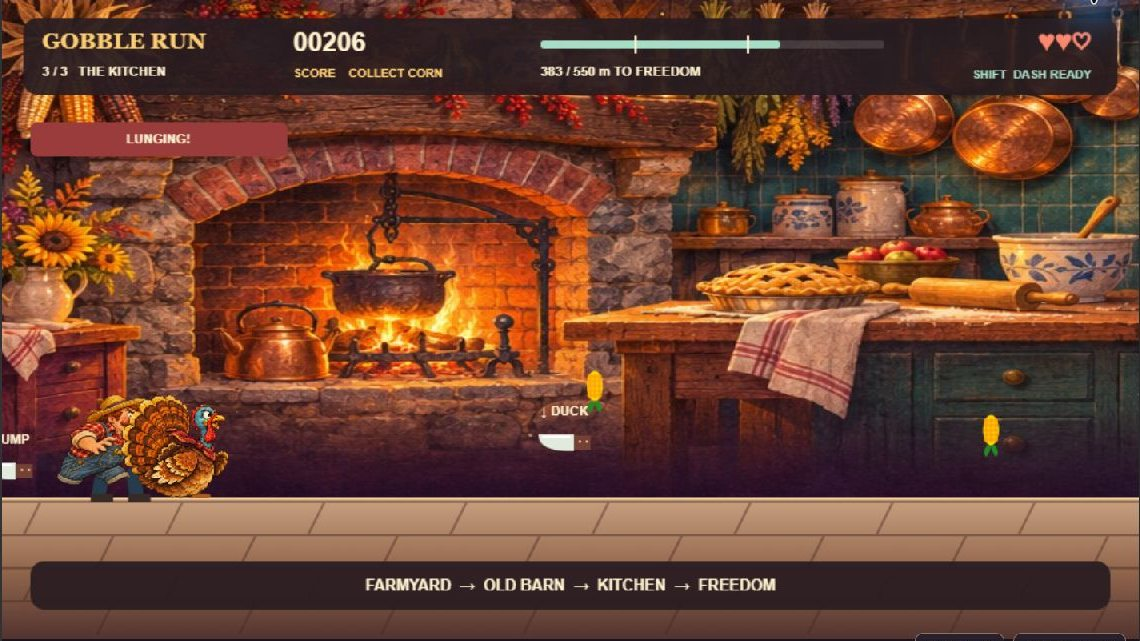
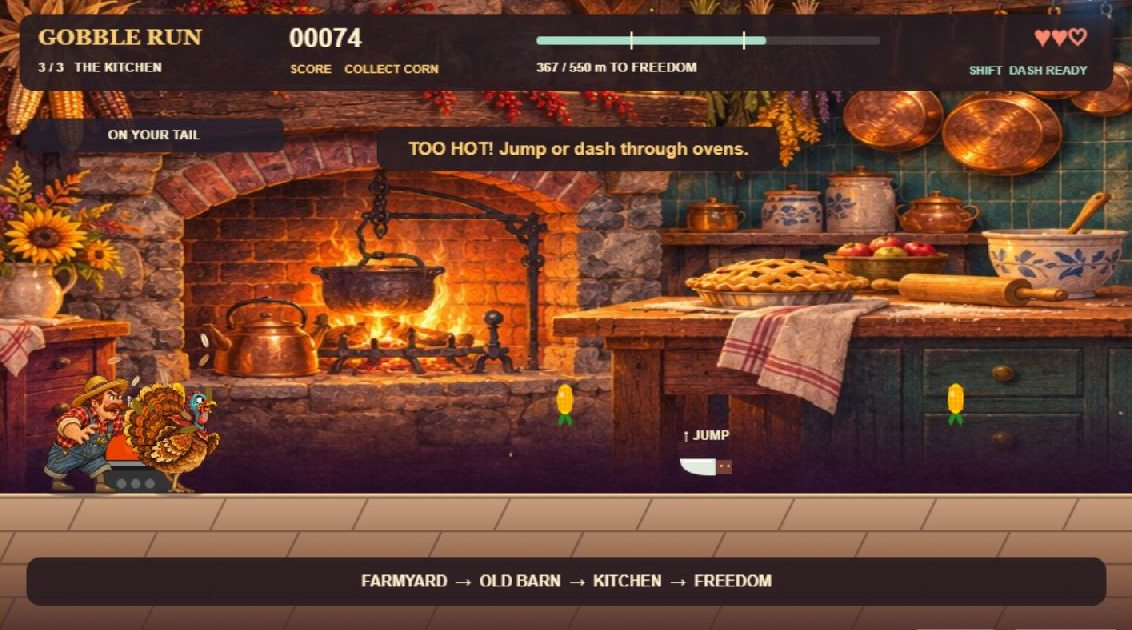
Align turkey feet and farmer boots with the sprites

diff --git a/game/src/characters.js b/game/src/characters.js
@@ -1,0 +1,147 @@
+/** Join the animated lower legs to the painted bodies. Coordinates are relative to the ground. */
+import { CONFIG } from './config.js';
+
+const TAU = 2 * Math.PI;
+
+function stride(phase, reach, lift) {
+  const progress = (phase / TAU + 1) % 1;
+  if (progress < 0.5) return [reach * (1 - 4 * progress), 0];
+  const swing = 2 * progress - 1;
+  return [reach * (2 * swing - 1), -lift * Math.sin(Math.PI * swing) ** 2];
+}
+
+function shadow(ctx, x, width, opacity) {
+  ctx.fillStyle = `rgba(32, 20, 29, ${opacity})`;
+  ctx.beginPath();
+  ctx.ellipse(x, 0, width, 3, 0, 0, TAU);
+  ctx.fill();
+}
+
+function turkeyLeg(ctx, hipX, hipY, toeX, soleY, rear) {
+  const ankleY = soleY - 3;
+  const hockX = hipX + (toeX - hipX) * 0.34 - 4;
+  const hockY = hipY + (ankleY - hipY) * 0.45;
+  const outline = '#583018';
+  const gold = rear ? '#ad662e' : '#e2a553';
+  ctx.lineCap = 'round';
+  ctx.lineJoin = 'round';
+  ctx.beginPath();
+  ctx.moveTo(hipX, hipY);
+  ctx.quadraticCurveTo(hipX - 2, hockY - 3, hockX, hockY);
+  ctx.lineTo(toeX, ankleY);
+  ctx.strokeStyle = outline;
+  ctx.lineWidth = 4.5;
+  ctx.stroke();
+  ctx.strokeStyle = gold;
+  ctx.lineWidth = 2.4;
+  ctx.stroke();
+
+  ctx.beginPath();
+  ctx.moveTo(toeX - 3.5, soleY - 1.7);
+  ctx.lineTo(toeX, ankleY);
+  ctx.quadraticCurveTo(toeX + 3.5, ankleY - 0.5, toeX + 8, soleY - 1.4);
+  ctx.moveTo(toeX + 1, ankleY);
+  ctx.lineTo(toeX + 5, soleY - 0.9);
+  ctx.strokeStyle = outline;
+  ctx.lineWidth = 2.4;
+  ctx.stroke();
+  ctx.strokeStyle = gold;
+  ctx.lineWidth = 1.15;
+  ctx.stroke();
+}
+
+export function drawPaintedTurkey(ctx, art, turkey) {
+  const phase = (turkey.legTimer * 0.3) % TAU;
+  const crouched = turkey.ducking;
+  const grounded = turkey.grounded;
+  const bob = grounded ? -Math.abs(Math.sin(phase)) * (crouched ? 0.9 : 2) : -1;
+  const bodyBottom = (crouched ? -4 : grounded ? -15 : -17) + bob;
+  const bodyHeight = crouched ? 45 : 79;
+  const bodyWidth = crouched ? 96 : 83;
+  const bodyX = crouched ? -69 : -59;
+  const heightOffGround = grounded ? 0 : Math.max(0, CONFIG.GROUND_Y - turkey.y - turkey.height);
+
+  ctx.save();
+  ctx.translate(turkey.x + turkey.width / 2, turkey.y + turkey.height);
+  ctx.save();
+  ctx.translate(0, heightOffGround);
+  shadow(ctx, -11, 21, 0.32 / (1 + heightOffGround / 40));
+  ctx.restore();
+
+  if (turkey.dashing) {
+    ctx.save();
+    ctx.globalAlpha *= 0.26;
+    ctx.drawImage(art, bodyX - 17, bodyBottom - bodyHeight + 3, bodyWidth, bodyHeight);
+    ctx.restore();
+  }
+  for (const rear of [true, false]) {
+    const hipX = bodyX + (rear ? 0.46 : 0.64) * bodyWidth;
+    const hipY = bodyBottom - (rear ? 7 : 10);
+    const [swing, rise] = grounded
+      ? stride(phase + (rear ? Math.PI : 0), crouched ? 5 : 12, crouched ? 2 : 7)
+      : [rear ? -6 : turkey.vy < 0 ? 4 : 8, rear ? -10 : -6];
+    turkeyLeg(ctx, hipX, hipY, hipX + swing + 2, rise, rear);
+  }
+  ctx.drawImage(art, bodyX, bodyBottom - bodyHeight, bodyWidth, bodyHeight);
+  ctx.restore();
+}
+
+function farmerBoot(ctx, cuffX, cuffY, ankleX, soleY, rear) {
+  ctx.lineCap = 'round';
+  ctx.lineJoin = 'round';
+  ctx.beginPath();
+  ctx.moveTo(cuffX, cuffY);
+  ctx.lineTo(ankleX, soleY - 5);
+  ctx.strokeStyle = '#342721';
+  ctx.lineWidth = 8.5;
+  ctx.stroke();
+  ctx.strokeStyle = rear ? '#634630' : '#8f633d';
+  ctx.lineWidth = 5.5;
+  ctx.stroke();
+
+  ctx.save();
+  ctx.translate(ankleX, soleY);
+  ctx.beginPath();
+  ctx.moveTo(-4.5, -8.2);
+  ctx.quadraticCurveTo(0, -9, 3.2, -7.5);
+  ctx.quadraticCurveTo(4.6, -5.4, 9, -4.4);
+  ctx.quadraticCurveTo(13.8, -3.6, 12.7, -0.8);
+  ctx.quadraticCurveTo(5.6, 0.1, -5.1, -0.7);
+  ctx.quadraticCurveTo(-6.3, -3.3, -4.5, -8.2);
+  ctx.closePath();
+  const leather = ctx.createLinearGradient(0, -9, 0, -1);
+  leather.addColorStop(0, rear ? '#936b47' : '#b88652');
+  leather.addColorStop(1, rear ? '#503728' : '#65412b');
+  ctx.fillStyle = leather;
+  ctx.fill();
+  ctx.strokeStyle = '#342721';
+  ctx.lineWidth = 1.2;
+  ctx.stroke();
+  ctx.beginPath();
+  ctx.moveTo(3, -5.1);
+  ctx.lineTo(6, -4.3);
+  ctx.strokeStyle = '#e0b581';
+  ctx.lineWidth = 0.85;
+  ctx.stroke();
+  ctx.restore();
+}
+
+export function drawPaintedFarmer(ctx, art, farmer) {
+  const phase = (farmer.legTimer * 0.25) % TAU;
+  const bodyX = -48;
+  const bodyWidth = 98;
+  const bodyHeight = 89;
+  const bodyBottom = -10 - Math.abs(Math.sin(phase)) * 2;
+  ctx.save();
+  ctx.translate(farmer.x + farmer.width / 2, farmer.y + farmer.height);
+  shadow(ctx, -14, 29, 0.38);
+  for (const rear of [true, false]) {
+    // The illustration already has two separate trouser cuffs.
+    const cuffX = bodyX + (rear ? 0.115 : 0.48) * bodyWidth;
+    const cuffY = bodyBottom - (rear ? 5 : 10);
+    const [swing, rise] = stride(phase + (rear ? Math.PI : 0), 7, 6);
+    farmerBoot(ctx, cuffX, cuffY, cuffX + (rear ? -2 : 7) + swing, rise, rear);
+  }
+  ctx.drawImage(art, bodyX, bodyBottom - bodyHeight, bodyWidth, bodyHeight);
+  ctx.restore();
+}

diff --git a/game/src/entities.js b/game/src/entities.js
@@ -1,6 +1,7 @@
 /** Game entities: Turkey, Farmer, Obstacles, Collectibles */
 
 import { CONFIG } from './config.js';
+import { drawPaintedTurkey, drawPaintedFarmer } from './characters.js';
 const turkeyArt = document.getElementById('turkeyArt');
 const farmerArt = document.getElementById('farmerArt');
 
@@ -31,55 +32,28 @@ export function createTurkey() {
 }
 
 export function drawTurkey(ctx, turkey, frame) {
+  if (turkey.invincible > 0 && Math.floor(turkey.invincible / 4) % 2 === 0) return;
   if (turkeyArt.complete && turkeyArt.naturalWidth) {
-    if (turkey.invincible > 0 && Math.floor(turkey.invincible / 4) % 2 === 0) return;
-    const feet = turkey.y + turkey.height;
-    const stride = Math.sin(turkey.legTimer * 0.3) * 12;
-    ctx.save();
-    ctx.translate(turkey.x + turkey.width / 2, feet);
-    if (turkey.dashing) {
-      ctx.globalAlpha = 0.28;
-      ctx.drawImage(turkeyArt, -86, -80, 90, 72);
-      ctx.globalAlpha = 1;
-    }
-    ctx.strokeStyle = '#a95a1c';
-    ctx.lineWidth = 3.5;
-    ctx.lineCap = 'round';
-    for (const side of [-1, 1]) {
-      const swing = stride * side;
-      ctx.beginPath();
-      ctx.moveTo(side * 7, -17);
-      ctx.lineTo(side * 8 + swing * 0.4, -7);
-      ctx.lineTo(side * 10 + swing, -1);
-      ctx.lineTo(side * 10 + swing + 9, -1);
-      ctx.stroke();
-    }
-    const crouch = turkey.ducking ? 15 : 0;
-    const bob = turkey.grounded ? Math.sin(turkey.bobTimer * 0.3) * 2 : -3;
-    ctx.drawImage(turkeyArt, -64, -86 + crouch + bob, 92, 88 - crouch);
-    ctx.restore();
+    drawPaintedTurkey(ctx, turkeyArt, turkey);
     return;
   }
-  const { x, y, width, height, ducking, dashing, invincible, wingAngle, legTimer } = turkey;
-  
-  // Flash when invincible
-  if (invincible > 0 && Math.floor(invincible / 4) % 2 === 0) return;
-
+  const { x, y, width, height, ducking, dashing, wingAngle, legTimer } = turkey;
   ctx.save();
   ctx.translate(x + width / 2, y + height);
 
   const bob = Math.sin(turkey.bobTimer * 0.15) * 2;
+  const standingHeight = CONFIG.TURKEY_HEIGHT;
 
   // Dash afterimage
   if (dashing) {
     ctx.globalAlpha = 0.3;
     ctx.translate(-8, 0);
-    drawTurkeyBody(ctx, width, height, ducking, bob, frame, wingAngle, legTimer);
+    drawTurkeyBody(ctx, width, standingHeight, ducking, bob, frame, wingAngle, legTimer);
     ctx.translate(8, 0);
     ctx.globalAlpha = 1;
   }
 
-  drawTurkeyBody(ctx, width, height, ducking, bob, frame, wingAngle, legTimer);
+  drawTurkeyBody(ctx, width, standingHeight, ducking, bob, frame, wingAngle, legTimer);
   ctx.restore();
 }
 
@@ -210,24 +184,9 @@ export function createFarmer(x) {
   };
 }
 
-export function drawFarmer(ctx, farmer, frame) {
+export function drawFarmer(ctx, farmer) {
   if (farmerArt.complete && farmerArt.naturalWidth) {
-    const stride = Math.sin(farmer.legTimer * 0.25) * 13;
-    ctx.save();
-    ctx.translate(farmer.x + farmer.width / 2, farmer.y + farmer.height);
-    ctx.strokeStyle = '#263b4c';
-    ctx.lineWidth = 12;
-    ctx.lineCap = 'round';
-    for (const side of [-1, 1]) {
-      ctx.beginPath();
-      ctx.moveTo(side * 13, -19);
-      ctx.lineTo(side * 13 + stride * side, -3);
-      ctx.stroke();
-      ctx.fillStyle = '#382a25';
-      ctx.fillRect(side * 13 + stride * side - 7, -3, 19, 7);
-    }
-    ctx.drawImage(farmerArt, -52, -86 + Math.sin(frame * 0.3) * 2, 105, 77);
-    ctx.restore();
+    drawPaintedFarmer(ctx, farmerArt, farmer);
     return;
   }
   const { x, y, width, height, legTimer, armAngle } = farmer;

diff --git a/game/src/screens.js b/game/src/screens.js
@@ -1,12 +1,19 @@
 /** Title and result screens use the same live artwork as the game. */
 import { drawAutumnScene, panel, text, palette } from './art.js';
-import { createTurkey, createFarmer, drawTurkey, drawFarmer, drawObstacle } from './entities.js';
+import { createTurkey, createFarmer, drawTurkey, drawFarmer } from './entities.js';
 
-function hero(ctx, frame, x, y, scale) {
+function hero(ctx, frame, x, groundY, scale, running = true) {
   const turkey = createTurkey();
-  turkey.bobTimer = frame; turkey.legTimer = frame; turkey.wingAngle = frame * 0.1;
-  ctx.save(); ctx.translate(x, y); ctx.scale(scale, scale);
-  turkey.x = 0; turkey.y = 0; drawTurkey(ctx, turkey, frame); ctx.restore();
+  turkey.bobTimer = frame;
+  turkey.legTimer = running ? frame : 0;
+  turkey.wingAngle = frame * 0.1;
+  turkey.x = -turkey.width / 2;
+  turkey.y = -turkey.height;
+  ctx.save();
+  ctx.translate(x, groundY);
+  ctx.scale(scale, scale);
+  drawTurkey(ctx, turkey, frame);
+  ctx.restore();
 }
 
 export function drawTitleScreen(ctx, frame, best = 0) {
@@ -22,10 +29,17 @@ export function drawTitleScreen(ctx, frame, best = 0) {
   panel(ctx, 48, 366, 252, 51, palette.gold);
   text(ctx, 'START ESCAPE   →', 174, 392, 19, palette.ink, 'center');
   text(ctx, 'SPACE / ENTER / CLICK TO START', 49, 437, 11, '#d8bc9f');
-  hero(ctx, frame, 630, 272, 2.6);
-  const farmer = createFarmer(0); farmer.legTimer = frame;
-  ctx.save(); ctx.translate(820, 301); ctx.scale(1.35, 1.35); farmer.x = 0; farmer.y = 0; drawFarmer(ctx, farmer, frame); ctx.restore();
-  text(ctx, '“I am absolutely a salad person.”', 775, 166, 14, palette.cream, 'center', 'Georgia');
+  const farmer = createFarmer(0);
+  farmer.legTimer = frame;
+  farmer.x = -farmer.width / 2;
+  farmer.y = -farmer.height;
+  ctx.save();
+  ctx.translate(568, 420);
+  ctx.scale(1.4, 1.4);
+  drawFarmer(ctx, farmer);
+  ctx.restore();
+  hero(ctx, frame, 796, 420, 2.65);
+  text(ctx, '“I am absolutely a salad person.”', 786, 142, 14, palette.cream, 'center', 'Georgia');
   panel(ctx, 30, 478, 900, 42, '#241e2be8');
   text(ctx, 'SPACE  jump ×2     ↓ / S  duck & hide     SHIFT / X  dash     P  pause     M  sound', 480, 499, 13, palette.cream, 'center');
   if (best) text(ctx, `PERSONAL BEST  ${best}`, 908, 40, 12, palette.gold, 'right');
@@ -52,8 +66,7 @@ function drawResult(ctx, escaped, score, distance, frame, stats) {
   panel(ctx, 120, 391, 271, 47, palette.gold);
   text(ctx, 'RUN AGAIN   →', 255, 415, 17, palette.ink, 'center');
   text(ctx, 'SPACE / ENTER / CLICK', 426, 415, 12, '#d9bcaa');
-  hero(ctx, frame, 685, 284, 2.2);
-  if (!escaped) drawObstacle(ctx, { type: 'oven', x: 684, y: 360, width: 90, height: 65 }, frame);
+  hero(ctx, frame, 738, 410, 2.2, false);
 }
 
 export function drawPauseScreen(ctx) {

diff --git a/game/src/main.js b/game/src/main.js
@@ -244,10 +244,9 @@ function draw() {
       drawObstacle(ctx, obstacle, frame);
       text(ctx, obstacle.type === 'knife' ? (obstacle.y < 380 ? '↓ DUCK' : '↑ JUMP') : obstacle.type === 'oven' ? 'HOT! ↑ / SHIFT' : '↑ JUMP', obstacle.x + obstacle.width / 2, obstacle.y - 18, 11, '#fff0cc', 'center');
     }
-    drawFarmer(ctx, farmer, frame);
+    drawFarmer(ctx, farmer);
     ctx.save(); if (hidden) ctx.globalAlpha = 0.35;
-    // The sprite uses its standing dimensions while the collider changes for ducking.
-    drawTurkey(ctx, { ...turkey, y: 420 - CONFIG.TURKEY_HEIGHT + (turkey.y + turkey.height - 420), height: CONFIG.TURKEY_HEIGHT }, frame);
+    drawTurkey(ctx, turkey, frame);
     ctx.restore();
     drawParticles(ctx);
     drawHUD(ctx, turkey, stage, farmer, stats, hidden, tick);
